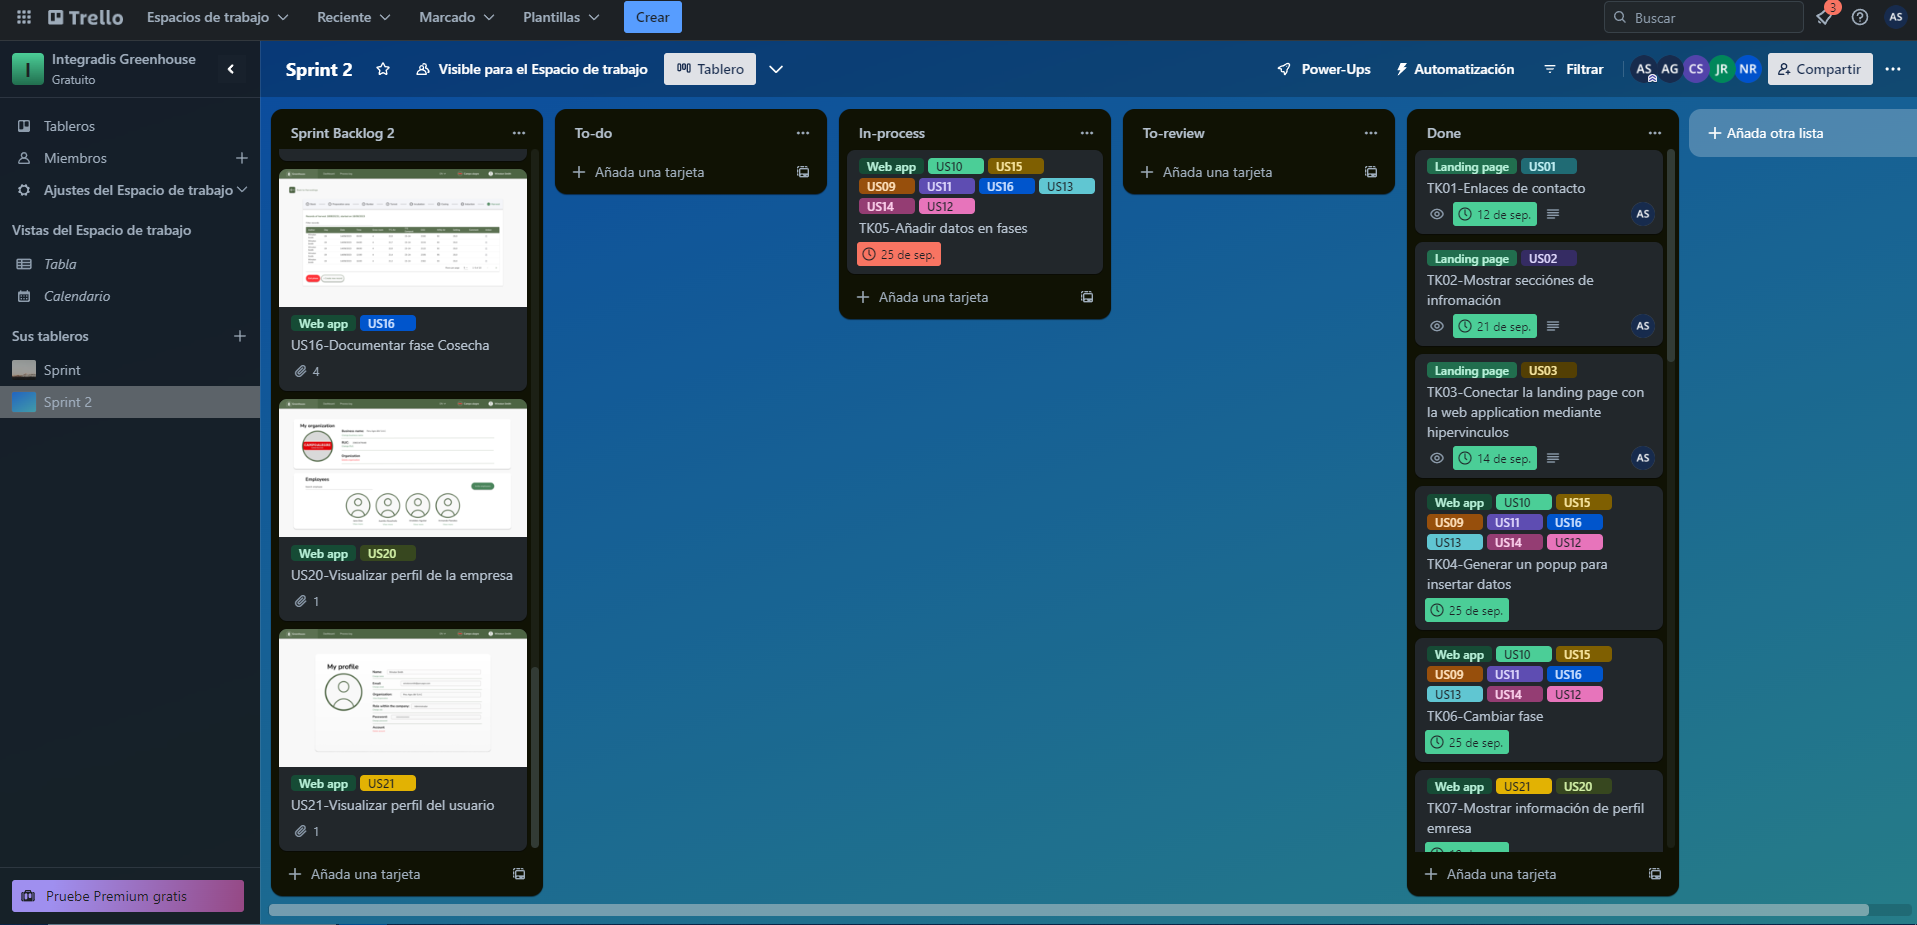
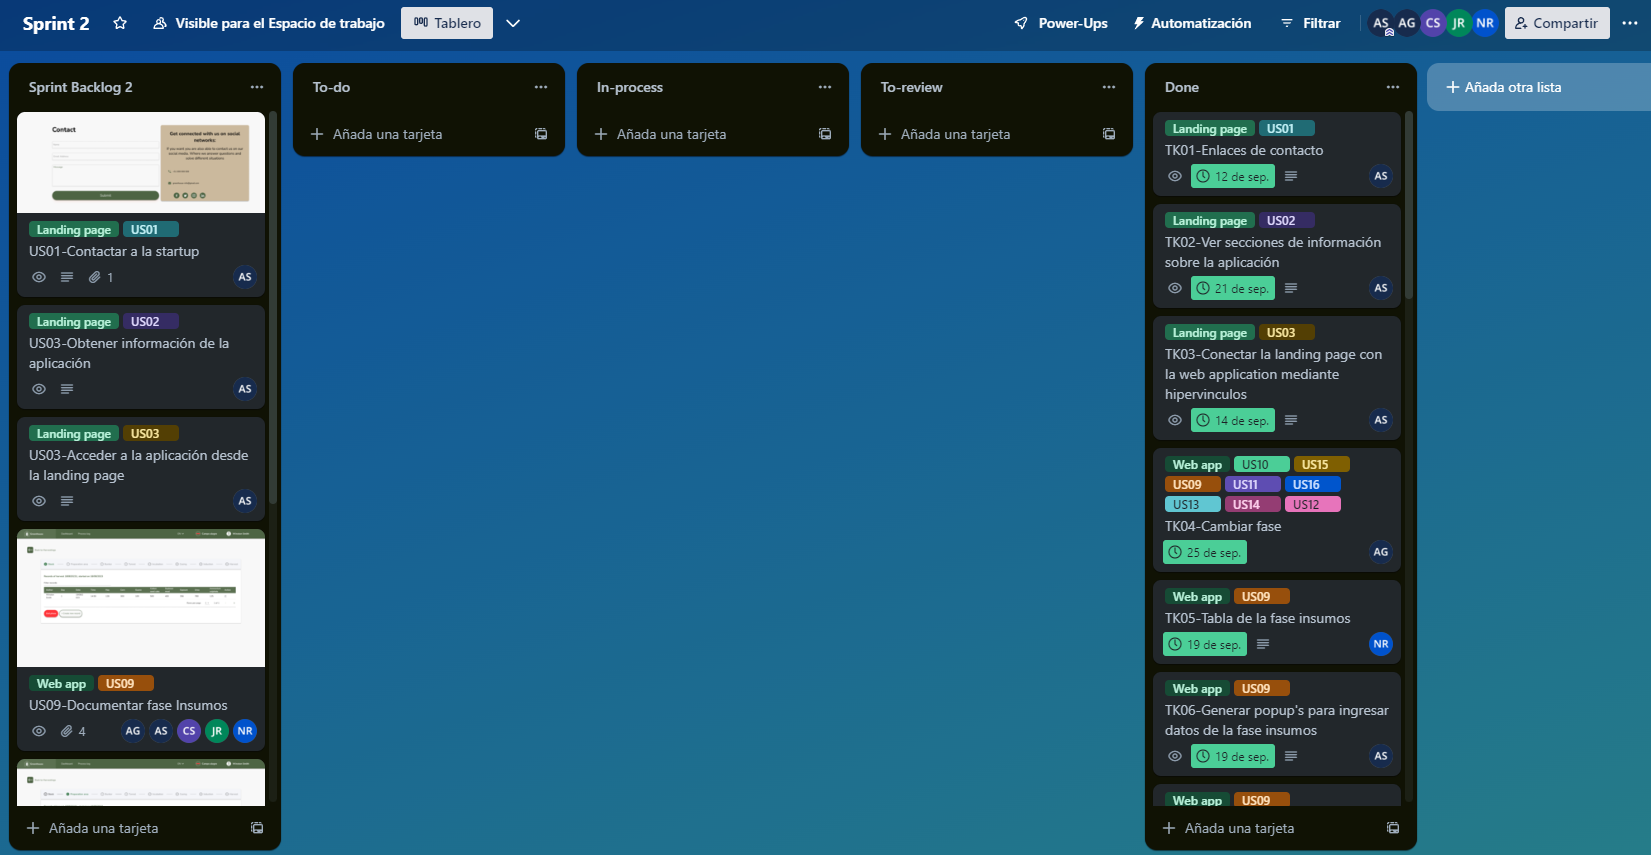
chore: uploaded images for sprint 2 section. Finished sections Testing Suite Evidence for Sprint Review, Execution Evidence for Sprint Review, Services Documentation Evidence for Sprint Review, Software Deployment Evidence for Sprint Review and Team Collaboration Insights during Sprint

diff --git a/README.md b/README.md
@@ -1968,7 +1968,7 @@ El Sprint #2 tiene como fecha de inicio el 09/09/2023 y como meta plantea resolv
 
 En el segundo sprint backlog, el equipo completó la landing page y el MVP del front end de la web application. La herramienta utilizada para organizar y gestionar a los miembros del equipo fue Trello. Esta herramienta permitio que se pueda dividir todas las user stories en tareas manejables y asignarlas a los diferentes miembros segun sus diferentes habilidades. el objetivo principal del sprint era arreglar los bugs de la landing page y construir en su totalidad la web application con su respectivo fake API, logrando que sea atractiva y funcional.
 
-![Trello Sprint 2](https://github.com/Integradis-OpenSource/TFDocOpenSource/assets/103398708/dfef7d68-28c0-4605-b925-c58d7fc2071e)
+![Trello Sprint 2](https://github.com/Integradis-OpenSource/TFDocOpenSource/assets/103398708/8da6f60b-229e-4e98-8f60-e13c8ae70be4)
 
 Link del Trello: https://trello.com/invite/b/q8SkLCMK/ATTIf9a61ba0854f31e5246de6360405aa5231097B50/sprint-2
 
@@ -2330,6 +2330,8 @@ Link del Trello: https://trello.com/invite/b/q8SkLCMK/ATTIf9a61ba0854f31e5246de6
 
 <div id='5.2.2.3.'><h5> 5.2.2.3. Development Evidence for Sprint Review.</h5></div>
 
+Como parte de las evidencias del sprint review, se demuestran mediante una tabla los commits realizados a lo largo de este segundo sprint. Como se establecio trabajar los arreglos finales de la landing page y el frontend de la web application, se muestran commits de diferentes repositorios donde se trabajo.
+
 |Repository|Branch|Commit Id|Commit Message|Commit Message Body|Commited on (Date)|
 |-|-|-|-|-|-|
 |https://github.com/Integradis-OpenSource/LandingPage|LandingPage/main|34a02d1|feat: added hyperlinks to navbar and footer||10/09/2023|
@@ -2441,32 +2443,136 @@ Link del Trello: https://trello.com/invite/b/q8SkLCMK/ATTIf9a61ba0854f31e5246de6
 
 |Repository|Branch|Commit Id|Commit Message|Commit Message Body|Commited on (Date)|
 |-|-|-|-|-|-|
+|https://github.com/Integradis-OpenSource/TFDocOpenSource|TFDocOpenSource/main|11f65de|chore: uploaded acceptance test for user stories||26/09/2023|
 
 
 <div id='5.2.2.5.'><h5>5.2.2.5.Execution Evidence for Sprint Review.</h5></div>
 En el sprint 2 se alcanzo un desarrollo completo en la implementación del despliegue del landing page. La cual muestra diferentes secciones donde el usuario puede encontrar información relevante acerca del producto y del start up, tanto en ingles como en español, asi como su version responsive. Por otro lado, se realizo un desarrollo parcial de la aplciación web, la cual permite al usuario navegar por ciertas funcionalidades. A continuación se muestran algunas evidencias:
 
-Landing Page Ingles:
-
-![landing_page_evidence_EN](https://github.com/Integradis-OpenSource/TFDocOpenSource/assets/103398708/5cdd2d53-b426-4a0d-aa55-1e657fd3e62a)
-
-Landing Page Responsive Ingles:
-
-![landing_page_evidence_ES](https://github.com/Integradis-OpenSource/TFDocOpenSource/assets/103398708/da22018d-2915-430c-9af8-34d308c6c483)
-
-Landing Page Español:
-
-![landing_page_responsive_evidence_ES](https://github.com/Integradis-OpenSource/TFDocOpenSource/assets/103398708/5a1358e3-8844-4206-bd59-a289ced700e5)
-
-Landing Page Responsive Español:
-
-![landing_page_responsive_evidence_EN](https://github.com/Integradis-OpenSource/TFDocOpenSource/assets/103398708/e9ecc3e1-e2b6-4688-a0f2-84ffab72b26b)
-
+- US01:
+![Landing_8](https://github.com/Integradis-OpenSource/TFDocOpenSource/assets/103398708/c98f9f5f-a93a-498b-a91e-5ff9b4bd5bdf)
+- US02:
+![Landing_2](https://github.com/Integradis-OpenSource/TFDocOpenSource/assets/103398708/37d2a42a-a593-46d2-8bcf-823cf32ecdeb)
+![Landing_3](https://github.com/Integradis-OpenSource/TFDocOpenSource/assets/103398708/b3c33257-db49-4dfb-8434-1ee2c1d3e25a)
+![Landing_4](https://github.com/Integradis-OpenSource/TFDocOpenSource/assets/103398708/7e2c8d23-720b-424d-bf80-adc6e88befbd)
+- US03:
+![Landing_2](https://github.com/Integradis-OpenSource/TFDocOpenSource/assets/103398708/37d2a42a-a593-46d2-8bcf-823cf32ecdeb)
+- US09:
+![stock](https://github.com/Integradis-OpenSource/TFDocOpenSource/assets/103398708/7a0f0bf1-6507-43d3-8fc0-b41de726ea81)
+![stock_popup_newrecord](https://github.com/Integradis-OpenSource/TFDocOpenSource/assets/103398708/2428272c-0f16-4124-aec5-64f31867b422)
+- US10:
+![preparation_area](https://github.com/Integradis-OpenSource/TFDocOpenSource/assets/103398708/508e36b6-281f-4513-9053-cdbb39bf94a7)
+![preparation_area_popup_newrecord](https://github.com/Integradis-OpenSource/TFDocOpenSource/assets/103398708/b71e8a0d-5f67-4b9d-a190-7f6538906b3e)
+- US11:
+![bunker](https://github.com/Integradis-OpenSource/TFDocOpenSource/assets/103398708/ae808f72-5d0e-4b5b-acbd-c22374fcea67)
+![bunker_popup_newrecord](https://github.com/Integradis-OpenSource/TFDocOpenSource/assets/103398708/b74a32eb-ec54-48e6-be7e-502cf5db2e5a)
+- US12:
+![tunel](https://github.com/Integradis-OpenSource/TFDocOpenSource/assets/103398708/9c38fce5-4133-441a-ab77-415a29797b9b)
+![tunel_popup_newrecord](https://github.com/Integradis-OpenSource/TFDocOpenSource/assets/103398708/7b30c8e4-385e-40d8-a63e-acf31f36ad7e)
+- US13:
+![incubation](https://github.com/Integradis-OpenSource/TFDocOpenSource/assets/103398708/87589688-a604-4650-a568-fdf24d49fb8c)
+![incubation_popup_newrecord](https://github.com/Integradis-OpenSource/TFDocOpenSource/assets/103398708/f95863b1-875f-4dc8-93d1-d91b8d3d4152)
+- US14:
+![casing](https://github.com/Integradis-OpenSource/TFDocOpenSource/assets/103398708/41c99426-8f3e-423f-90ad-ed5db937f47b)
+![casing_popup_newrecord](https://github.com/Integradis-OpenSource/TFDocOpenSource/assets/103398708/f0d95b18-3239-4be1-8ee0-c3356f9d3808)
+- US15:
+![induction](https://github.com/Integradis-OpenSource/TFDocOpenSource/assets/103398708/370de214-67fc-414f-9f7a-2b1c4ba7cd3a)
+![induction_popup_newrecord](https://github.com/Integradis-OpenSource/TFDocOpenSource/assets/103398708/c3d0bfbe-4306-4470-b9a6-5acb8b78478a)
+- US16:
+![harvest](https://github.com/Integradis-OpenSource/TFDocOpenSource/assets/103398708/859fd609-f9bf-4ab7-bd49-6002c10bf645)
+![harvest_popup_newrecord](https://github.com/Integradis-OpenSource/TFDocOpenSource/assets/103398708/3ce395c7-c599-4562-a145-0f9f965cf51a)
+- US20:
+![Organization](https://github.com/Integradis-OpenSource/TFDocOpenSource/assets/103398708/e87ac1d9-c192-4d54-abb5-279b60e34032)
+- US21:
+![Profile](https://github.com/Integradis-OpenSource/TFDocOpenSource/assets/103398708/580816d9-0499-44e2-bcaa-12c41dd47be0)
 <div id='5.2.2.6.'><h5>5.2.2.6.Services Documentation Evidence for Sprint Review.</h5></div>
 
 <div id='5.2.2.7.'><h5>5.2.2.7.Software Deployment Evidence for Sprint Review.</h5></div>
 
+Para la entrega del segundo sprint, se desplego el landing page completamente funcional. Cumpliendo los user stories correspondientes al entregable. De la misma forma se desplego la web application parcialmente completa, pues presenta ciertos bugs que será solucionados en el siguiente sprint.
+
+Landing page:
+
+El despliegue de la página de destino en GitHub Pages se ha actualizado después de haber realizado la fusión de la rama "develop" con la rama principal ("main"). Este proceso ha permitido actualizar la implementación de la página de destino.
+
+![deployment_landing](https://github.com/Integradis-OpenSource/TFDocOpenSource/assets/103398708/3e406d58-1bf4-486a-897f-a2e64616902d)
+
+- Capturas de pantalla landing page:
+
+![Landing_1](https://github.com/Integradis-OpenSource/TFDocOpenSource/assets/103398708/59a49cb5-e22d-471d-98f3-fbf506e2425a)
+![Landing_2](https://github.com/Integradis-OpenSource/TFDocOpenSource/assets/103398708/37d2a42a-a593-46d2-8bcf-823cf32ecdeb)
+![Landing_3](https://github.com/Integradis-OpenSource/TFDocOpenSource/assets/103398708/b3c33257-db49-4dfb-8434-1ee2c1d3e25a)
+![Landing_4](https://github.com/Integradis-OpenSource/TFDocOpenSource/assets/103398708/7e2c8d23-720b-424d-bf80-adc6e88befbd)
+![Landing_5](https://github.com/Integradis-OpenSource/TFDocOpenSource/assets/103398708/06d27957-9a1e-4c0e-a5d6-7162015771fb)
+![Landing_6](https://github.com/Integradis-OpenSource/TFDocOpenSource/assets/103398708/617ba3b1-c0f5-48bb-9adc-029ae12d51ab)
+![Landing_7](https://github.com/Integradis-OpenSource/TFDocOpenSource/assets/103398708/e3b2c196-e66c-4e34-b840-b3de0b8e9396)
+![Landing_8](https://github.com/Integradis-OpenSource/TFDocOpenSource/assets/103398708/c98f9f5f-a93a-498b-a91e-5ff9b4bd5bdf)
+![Landing_9](https://github.com/Integradis-OpenSource/TFDocOpenSource/assets/103398708/5f457c37-0579-4306-b211-d17e6f1ae5c3)
+![Landing_10](https://github.com/Integradis-OpenSource/TFDocOpenSource/assets/103398708/e5294dea-9692-4abb-abbd-1093e3099571)
+![Landing_11](https://github.com/Integradis-OpenSource/TFDocOpenSource/assets/103398708/2936a5ed-e39e-488d-b1b0-c521c421ab8f)
+
+Web Application:
+
+Se certifica la exitosa implementación de la aplicación web frontend en Netlify, utilizando la rama principal ("master") del repositorio. Las configuraciones incluyen el comando de construcción "npm run build" para generar la carpeta "dist", sin modificar el directorio base, y la selección de "dist/greenhouse" como directorio de publicación, seguido de la ejecución exitosa del despliegue bajo la opción "Deploy Greenhouse".
+
+![deployment_web_app](https://github.com/Integradis-OpenSource/TFDocOpenSource/assets/103398708/abf4d6b0-e86d-4cdd-a7d3-44a77461ced0)
+
+- Capturas de pantalla de web application:
+
+![dashboard](https://github.com/Integradis-OpenSource/TFDocOpenSource/assets/103398708/5b83b93e-1353-4a98-9753-17dfeb7af3b5)
+![Organization](https://github.com/Integradis-OpenSource/TFDocOpenSource/assets/103398708/e87ac1d9-c192-4d54-abb5-279b60e34032)
+![Profile](https://github.com/Integradis-OpenSource/TFDocOpenSource/assets/103398708/580816d9-0499-44e2-bcaa-12c41dd47be0)
+![start_harvest](https://github.com/Integradis-OpenSource/TFDocOpenSource/assets/103398708/1e7d1fec-08f6-4551-83d4-83c7ac82595c)
+![start_harvest_popup](https://github.com/Integradis-OpenSource/TFDocOpenSource/assets/103398708/f1d60045-1265-4091-9273-4e50aa382dd0)
+![stock](https://github.com/Integradis-OpenSource/TFDocOpenSource/assets/103398708/7a0f0bf1-6507-43d3-8fc0-b41de726ea81)
+![stock_popup_newrecord](https://github.com/Integradis-OpenSource/TFDocOpenSource/assets/103398708/2428272c-0f16-4124-aec5-64f31867b422)
+![stock_popup_warning](https://github.com/Integradis-OpenSource/TFDocOpenSource/assets/103398708/5bf549e5-1d3c-4cbb-8099-6a09b403c6c4)
+![preparation_area](https://github.com/Integradis-OpenSource/TFDocOpenSource/assets/103398708/508e36b6-281f-4513-9053-cdbb39bf94a7)
+![preparation_area_popup_newrecord](https://github.com/Integradis-OpenSource/TFDocOpenSource/assets/103398708/b71e8a0d-5f67-4b9d-a190-7f6538906b3e)
+![preparation_area_popup_warning](https://github.com/Integradis-OpenSource/TFDocOpenSource/assets/103398708/a323393d-6fb4-4163-8355-21fd3f155f64)
+![bunker](https://github.com/Integradis-OpenSource/TFDocOpenSource/assets/103398708/ae808f72-5d0e-4b5b-acbd-c22374fcea67)
+![bunker_popup_newrecord](https://github.com/Integradis-OpenSource/TFDocOpenSource/assets/103398708/b74a32eb-ec54-48e6-be7e-502cf5db2e5a)
+![bunker_popup_warning](https://github.com/Integradis-OpenSource/TFDocOpenSource/assets/103398708/dba83376-705b-439f-93b8-18603793f654)
+![tunel](https://github.com/Integradis-OpenSource/TFDocOpenSource/assets/103398708/9c38fce5-4133-441a-ab77-415a29797b9b)
+![tunel_popup_newrecord](https://github.com/Integradis-OpenSource/TFDocOpenSource/assets/103398708/7b30c8e4-385e-40d8-a63e-acf31f36ad7e)
+![tunel_popup_warning](https://github.com/Integradis-OpenSource/TFDocOpenSource/assets/103398708/81b190f5-fc0a-4727-a37b-d5c57e308583)
+![incubation](https://github.com/Integradis-OpenSource/TFDocOpenSource/assets/103398708/87589688-a604-4650-a568-fdf24d49fb8c)
+![incubation_popup_newrecord](https://github.com/Integradis-OpenSource/TFDocOpenSource/assets/103398708/f95863b1-875f-4dc8-93d1-d91b8d3d4152)
+![incubation_popup_warning](https://github.com/Integradis-OpenSource/TFDocOpenSource/assets/103398708/b0fadc01-f363-4a7a-91ee-3a0a3bb3f990)
+![casing](https://github.com/Integradis-OpenSource/TFDocOpenSource/assets/103398708/41c99426-8f3e-423f-90ad-ed5db937f47b)
+![casing_popup_newrecord](https://github.com/Integradis-OpenSource/TFDocOpenSource/assets/103398708/f0d95b18-3239-4be1-8ee0-c3356f9d3808)
+![casing_popup_warning](https://github.com/Integradis-OpenSource/TFDocOpenSource/assets/103398708/64199433-4a15-4562-bbf7-bd2aed06f021)
+![induction](https://github.com/Integradis-OpenSource/TFDocOpenSource/assets/103398708/370de214-67fc-414f-9f7a-2b1c4ba7cd3a)
+![induction_popup_newrecord](https://github.com/Integradis-OpenSource/TFDocOpenSource/assets/103398708/c3d0bfbe-4306-4470-b9a6-5acb8b78478a)
+![induction_popup_warning](https://github.com/Integradis-OpenSource/TFDocOpenSource/assets/103398708/04698ac6-0e7c-44ee-8b5b-1a9082dae683)
+![harvest](https://github.com/Integradis-OpenSource/TFDocOpenSource/assets/103398708/859fd609-f9bf-4ab7-bd49-6002c10bf645)
+![harvest_popup_newrecord](https://github.com/Integradis-OpenSource/TFDocOpenSource/assets/103398708/3ce395c7-c599-4562-a145-0f9f965cf51a)
+![harvest_popup_warning](https://github.com/Integradis-OpenSource/TFDocOpenSource/assets/103398708/373540e4-3675-4567-a090-62b44b716b93)
+![finish_crop](https://github.com/Integradis-OpenSource/TFDocOpenSource/assets/103398708/912e0a08-2d6a-4065-868d-fadc24afba34)
+
 <div id='5.2.2.8.'><h5>5.2.2.8.Team Collaboration Insights during Sprint.</h5></div>
+
+|Alumno|Actividad|
+|-|-|
+|Soto Kong Requena, Andres Eduardo|Reestructuración de la landing 
+page. Elaborar componente header y componente popups de la web application para datos de la tabla|
+|Galavis Du Bois, Alan Enrique|Elaborar componente stepper, componente primary-button, routing entre pages|
+|Seminario Garvín, Carlo Luca|. Elaboración del json-server, componente profile. Despliegue de la aplicación. Conectar landing 
+page con aplicación|
+|Espinoza Rodriguez, Nicolas Antonio|Elaborar componente table, db.json, conectar componente dialog con botones. Elaboración del json-server.|
+|Comettant Rubiños, Jessica Elizabeth|Elaborar componente dialog para confirmar operación|
+
+Repositorio Landing:
+
+![evidencia_grupal_landing_github_sprint_2](https://github.com/Integradis-OpenSource/TFDocOpenSource/assets/103398708/9fee1c78-fa0d-45b5-b8eb-301fe418ed9c)
+
+![evidencia_indidual_landing_github_sprint_2](https://github.com/Integradis-OpenSource/TFDocOpenSource/assets/103398708/ade1b9ff-9af8-45a2-a12b-a307d85367a1)
+
+Repositorio Web Application:
+
+![evidencia_grupal_webapp_github_sprint_2](https://github.com/Integradis-OpenSource/TFDocOpenSource/assets/103398708/ba00f6fd-ae26-43d3-bdb3-82c6667ee1f5)
+
+![evidencia_individual_webapp_github_sprint_2](https://github.com/Integradis-OpenSource/TFDocOpenSource/assets/103398708/74d37005-b7c1-4e7a-b990-ed8412d65b0b)
 
 <div id='6.'><h2> 6. Conclusiones y recomendaciones.</h2></div>
 
